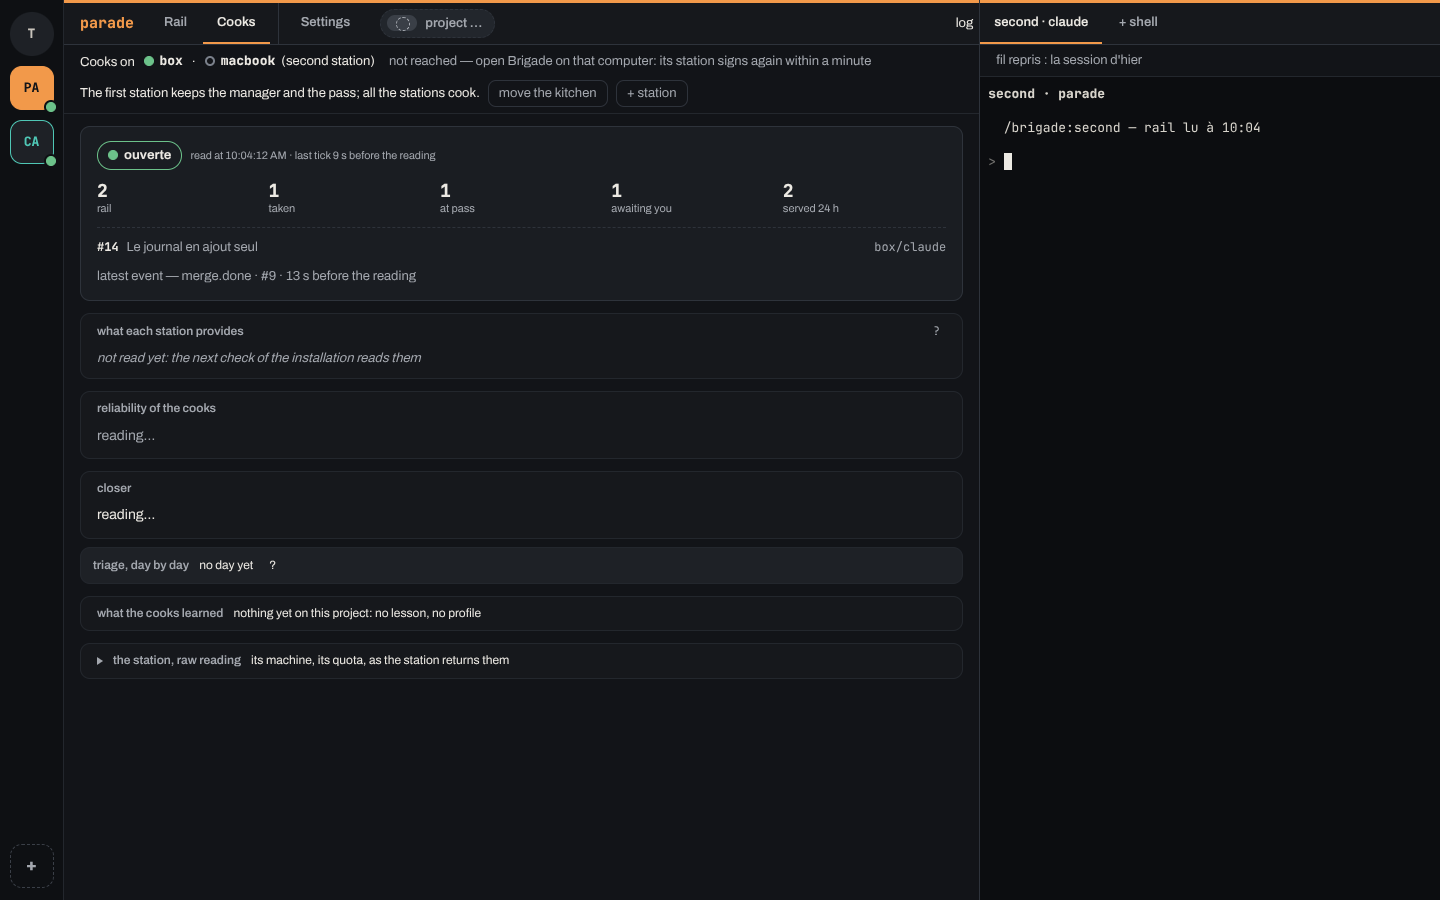
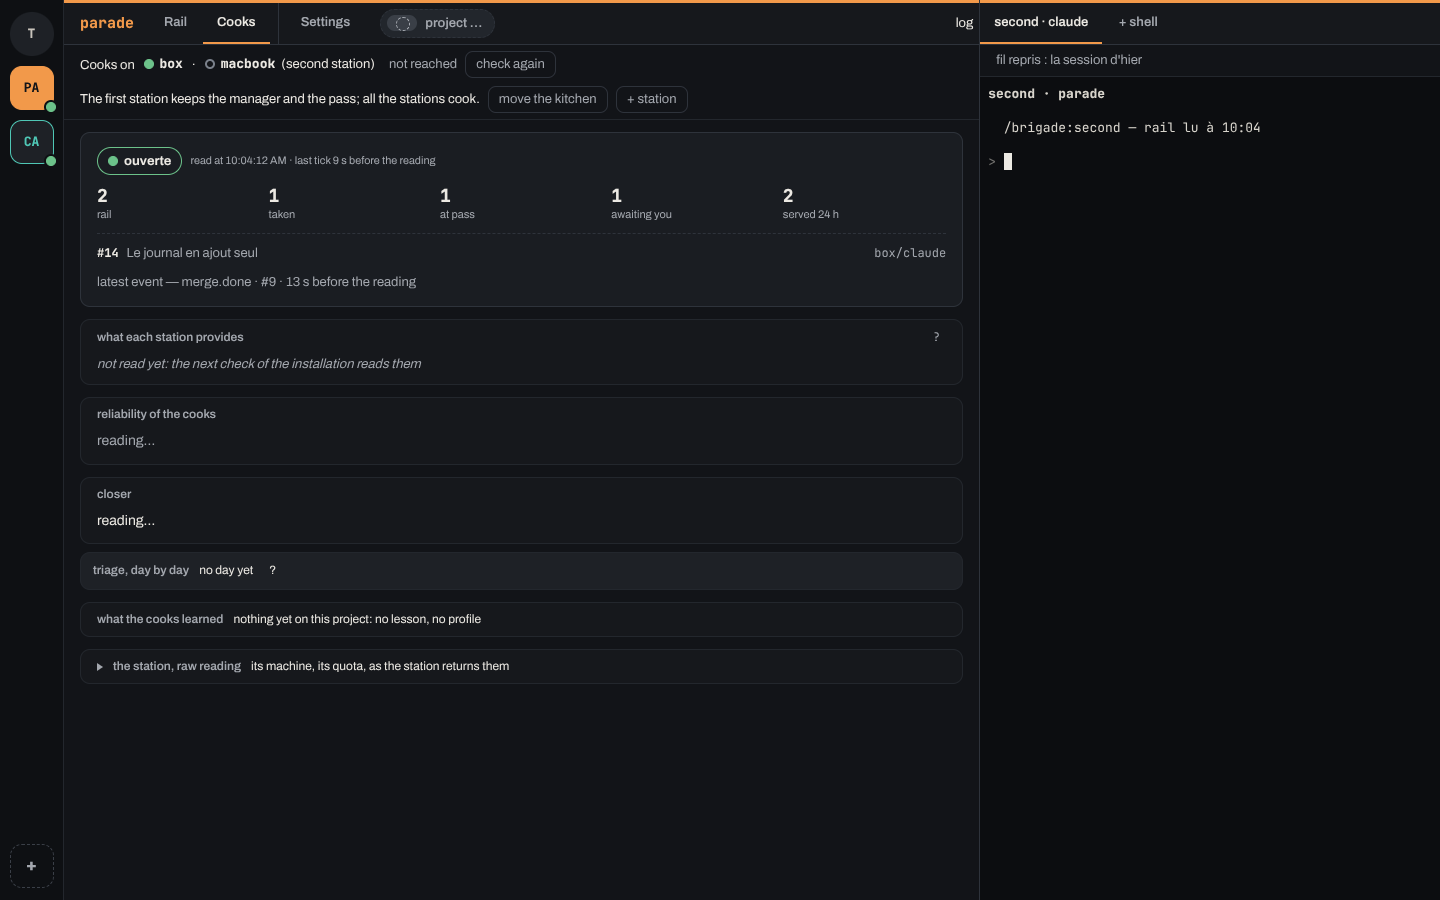
fix(#1758): the reason of a grey station is a few words and a button the app does (check again, open its page, add a project); what the chef does elsewhere is on hover

diff --git a/app/src/vue/vue.js b/app/src/vue/vue.js
@@ -5280,7 +5280,7 @@ async function passer() {
 
 // Une ligne de l'accueil : sa pastille, son nom, ce qui s'y passe — et, au survol, ce qu'elle tait.
 // Toute la ligne est un bouton : un clic n'importe où l'ouvre. Elle ne porte aucun autre geste.
-/** @param {string} nom @param {{ ton: string, dit: string, survol: string, raison?: { phrase: string } }} ligne @param {() => void} ouvrirLa */
+/** @param {string} nom @param {{ ton: string, dit: string, survol: string, raison?: { phrase: string, survol: string } }} ligne @param {() => void} ouvrirLa */
 function ligneDAccueil(nom, { ton, dit, survol, raison }, ouvrirLa) {
   const cree = document.createElement("button");
   cree.type = "button";
@@ -5294,6 +5294,7 @@ function ligneDAccueil(nom, { ton, dit, survol, raison }, ouvrirLa) {
   suite.ariaHidden = "true";
   const pourquoi = bloc("span", raison?.phrase ?? "");
   pourquoi.className = "pourquoi";
+  pourquoi.title = raison?.survol ?? "";
   cree.append(pastille(dit, ton), appele, bloc("span", dit), ...(raison === undefined ? [] : [pourquoi]), suite);
   cree.addEventListener("click", ouvrirLa);
   return cree;
@@ -5305,15 +5306,36 @@ function ligneDAccueil(nom, { ton, dit, survol, raison }, ouvrirLa) {
 function ligneDeStationDeLAccueil(station) {
   const ligne = ligneDAccueil(station.nom, station, () => ouvrirStation(station.id));
   const cuisine = stationsVues?.stations.find(({ id }) => id === station.id)?.cuisine !== false;
-  if (telephoneVu !== undefined || brigade.tirerUnCodeDeTelephone === undefined || !cuisine) return ligne;
+  const gestes = [];
+  // Une station qui ne cuit pas encore : le bouton de sa raison, un geste que l'app fait (stations/raison.ts).
+  if (station.raison !== undefined) {
+    const { geste, libelle } = station.raison.bouton;
+    const remede = /** @type {HTMLButtonElement} */ (bloc("button", libelle));
+    remede.type = "button";
+    remede.className = "remede-de-station";
+    remede.ariaLabel = `${libelle} — ${station.nom}`;
+    remede.addEventListener("click", () => {
+      if (geste === "ouvrir-la-page") ouvrirStation(station.id);
+      else if (geste === "ajouter-un-projet") ouvrirAjout();
+      else {
+        remede.disabled = true;
+        void brigade.panne(station.id, "relire-la-station").finally(() => (remede.disabled = false));
+      }
+    });
+    gestes.push(remede);
+  }
+  if (telephoneVu === undefined && brigade.tirerUnCodeDeTelephone !== undefined && cuisine) {
+    const appairer = /** @type {HTMLButtonElement} */ (bloc("button", APPAIRER_UN_TELEPHONE));
+    appairer.type = "button";
+    appairer.className = "appairer-un-telephone";
+    appairer.ariaLabel = `${APPAIRER_UN_TELEPHONE} with ${station.nom}`;
+    appairer.addEventListener("click", () => ouvrirLesTelephones({ id: station.id, nom: station.nom }));
+    gestes.push(appairer);
+  }
+  if (gestes.length === 0) return ligne;
   const rang = document.createElement("div");
   rang.className = "ligne-et-geste";
-  const appairer = /** @type {HTMLButtonElement} */ (bloc("button", APPAIRER_UN_TELEPHONE));
-  appairer.type = "button";
-  appairer.className = "appairer-un-telephone";
-  appairer.ariaLabel = `${APPAIRER_UN_TELEPHONE} with ${station.nom}`;
-  appairer.addEventListener("click", () => ouvrirLesTelephones({ id: station.id, nom: station.nom }));
-  rang.append(ligne, appairer);
+  rang.append(ligne, ...gestes);
   return rang;
 }
 
@@ -5809,10 +5831,10 @@ function cuisineDe(projet) {
   const demande = projetsVus?.projets.find(({ nom }) => nom === projet.nom);
   const servies = (stationsVues?.stations ?? []).filter(({ projets }) => projets.includes(projet.nom));
   const stations = [
-    ...servies.map(({ id, nom }) => ({ id, nom, principale: true, ...(muette ? { dit: "unreachable", ton: "rouge" } : etatDeLaCuisine("servi")), pourquoi: "", survol: muette ? `${nom} does not answer: the app knows nothing of the kitchen right now` : `${nom} serves it: it runs its manager and its pass`, autoriser: /** @type {string[]} */ ([]) })),
+    ...servies.map(({ id, nom }) => ({ id, nom, principale: true, ...(muette ? { dit: "unreachable", ton: "rouge" } : etatDeLaCuisine("servi")), pourquoi: "", geste: "", survol: muette ? `${nom} does not answer: the app knows nothing of the kitchen right now` : `${nom} serves it: it runs its manager and its pass`, autoriser: /** @type {string[]} */ ([]) })),
     ...(demande?.stations ?? [])
       .filter(({ id }) => !servies.some((servie) => servie.id === id))
-      .map((station) => ({ id: station.id, nom: station.nom, principale: station.principale, ...etatDeLaCuisine(station.etat, station.atteinte), pourquoi: station.atteinte?.pourquoi ?? "", survol: station.atteinte === undefined ? station.dit : station.atteinte.dit.replace(/^(not )?reached: /, ""), autoriser: station.autoriser })),
+      .map((station) => ({ id: station.id, nom: station.nom, principale: station.principale, ...etatDeLaCuisine(station.etat, station.atteinte), pourquoi: station.atteinte?.pourquoi ?? "", geste: station.atteinte?.geste ?? "", survol: station.atteinte === undefined ? station.dit : station.atteinte.dit.replace(/^(not )?reached: /, ""), autoriser: station.autoriser })),
   ];
   return { stations, demande: demande !== undefined, principale: stations.some(({ principale }) => principale) };
 }
@@ -5862,9 +5884,19 @@ function stationNommee(station, ici, rang = "") {
   });
   const pose = document.createElement("span");
   pose.className = "station-et-gestes";
+  // Une station ajoutée mais pas atteinte : deux mots, ce que le chef fait ailleurs au survol, et le geste de l'app.
   const pourquoi = bloc("span", station.pourquoi);
   pourquoi.className = "pourquoi";
-  pose.append(nomme, ...(station.pourquoi === "" ? [] : [pourquoi]), ...autoriser);
+  pourquoi.title = station.geste;
+  const relire = /** @type {HTMLButtonElement} */ (bloc("button", "check again"));
+  relire.type = "button";
+  relire.className = "relire-la-station";
+  relire.title = "reads GitHub again, to see whether the station has spoken";
+  relire.addEventListener("click", () => {
+    relire.disabled = true;
+    void brigade.panne(station.id, "relire-la-station").finally(() => (relire.disabled = false));
+  });
+  pose.append(nomme, ...(station.pourquoi === "" ? [] : [pourquoi, relire]), ...autoriser);
   return pose;
 }
 
@@ -6068,7 +6100,7 @@ function poserStationsDuProjet() {
     // Où il cuit, d'abord — « this Mac » pour la station de cet ordinateur —, puis ses renforts.
     const sienne = stations.find(({ id }) => id === ou?.id);
     const autres = stations.filter((station) => station !== sienne && !(enCours !== null && enCours.etape !== "refusee" && station.nom === enCours.vers));
-    const tete = ou === undefined ? [] : [stationNommee(sienne ?? { id: ou.id ?? "", nom: ou.nom, principale: true, dit: "served", ton: "vert", survol: "", pourquoi: "", autoriser: [] }, ou.ici)];
+    const tete = ou === undefined ? [] : [stationNommee(sienne ?? { id: ou.id ?? "", nom: ou.nom, principale: true, dit: "served", ton: "vert", survol: "", pourquoi: "", geste: "", autoriser: [] }, ou.ici)];
     ligneDesStationsDuProjet.replaceChildren(
       bloc("span", ou === undefined ? "Cooked by " : "Cooks on "),
       ...tete,

diff --git a/app/src/stations/raison.ts b/app/src/stations/raison.ts
@@ -1,14 +1,16 @@
-// Pourquoi une station installée ne cuit pas encore, en une phrase qui nomme le geste du chef (#1758) : une
-// pastille grise ne reste jamais sans explication. Chaque raison a une clé, et sa phrase — ce que le chef clique
-// ou lance — est dite ici, en un seul endroit ; la home la montre sur la ligne de la station.
-// Hors ligne, illisible, sans projet : c'est l'app qui les lit sur la station. Une station ajoutée à un projet
-// mais pas atteinte, c'est la principale du projet qui le dit, avec son geste (runtime/src/projets/secondaires.ts).
-export type RaisonDeStation = { cle: "hors-ligne" | "illisible" | "sans-projet"; phrase: string };
+// Pourquoi une station installée ne cuit pas encore, en quelques mots, et le bouton qui y remédie (#1758) : une
+// pastille grise ne reste jamais sans explication. Chaque raison a une clé ; sa phrase tient sur la ligne, son
+// bouton est un geste que l'app fait — relire GitHub, ouvrir la page de la station, ouvrir l'ajout d'un projet —,
+// et ce que le chef fait ailleurs (démarrer Brigade sur l'autre ordinateur) se lit au survol.
+// Hors ligne, illisible, sans projet : c'est l'app qui les lit sur la station. Une station ajoutée à un projet mais
+// pas atteinte, c'est la principale du projet qui le dit, avec son geste (runtime/src/projets/secondaires.ts).
+export type GesteDeRaison = "relire" | "ouvrir-la-page" | "ajouter-un-projet";
+export type RaisonDeStation = { cle: "hors-ligne" | "illisible" | "sans-projet"; phrase: string; survol: string; bouton: { libelle: string; geste: GesteDeRaison } };
 
 export const RAISONS = {
-  "hors-ligne": (nom: string) => `not reached: start Brigade on ${nom}'s computer, this line turns green when it signs again`,
-  illisible: (nom: string) => `cannot be read: open ${nom}'s page and remove it, then pair it again with a new code`,
-  "sans-projet": (nom: string) => `not added to any project: add a project to ${nom} with “+” in the bar`,
-} as const satisfies Record<RaisonDeStation["cle"], (nom: string) => string>;
+  "hors-ligne": (nom: string): Omit<RaisonDeStation, "cle"> => ({ phrase: "not reached", survol: `start Brigade on ${nom}'s computer: this line turns green when it signs again`, bouton: { libelle: "check again", geste: "relire" } }),
+  illisible: (nom: string): Omit<RaisonDeStation, "cle"> => ({ phrase: "cannot be read", survol: `remove ${nom} from its page, then pair it again with a new code`, bouton: { libelle: "open its page", geste: "ouvrir-la-page" } }),
+  "sans-projet": (nom: string): Omit<RaisonDeStation, "cle"> => ({ phrase: "not added to any project", survol: `add a project to ${nom}: it cooks nothing until then`, bouton: { libelle: "add a project", geste: "ajouter-un-projet" } }),
+} as const satisfies Record<RaisonDeStation["cle"], (nom: string) => Omit<RaisonDeStation, "cle">>;
 
-export const raisonDe = (cle: RaisonDeStation["cle"], nom: string): RaisonDeStation => ({ cle, phrase: RAISONS[cle](nom) });
+export const raisonDe = (cle: RaisonDeStation["cle"], nom: string): RaisonDeStation => ({ cle, ...RAISONS[cle](nom) });

diff --git a/app/src/projets/projets.ts b/app/src/projets/projets.ts
@@ -28,7 +28,7 @@ import { capacitesLues, documentDeDemande, FICHIER_PROJETS, FICHIER_SUIVI, lireD
 import type { Demenagement, Demenageur } from "./demenagement.ts";
 import type { DepotDuChef } from "./github.ts";
 import { canalDesGists, pourLaPage, type DemanderLeRemede, type IssueDuRemede } from "./remede.ts";
-import { pasAtteinte } from "./pas-atteinte.ts";
+import { gesteDePasAtteinte, PAS_ATTEINTE } from "./pas-atteinte.ts";
 
 // Le calibrage que la station accepte : ses deux listes fermées (runtime/src/calibrage.ts).
 export const MODELES = ["opus", "sonnet", "haiku"] as const;
@@ -53,8 +53,8 @@ export type Signales = Partial<Record<Champ, string>>;
 
 // Une station d'un projet, telle que la home la montre. `atteinte` : pour une station ajoutée en plus de la
 // principale, si la principale la dit atteinte, et pourquoi en une phrase (#1756) — absent tant qu'elle n'en dit rien ;
-// `pourquoi` : pas atteinte, la phrase de sa ligne, avec le geste du chef (pas-atteinte.ts, #1758).
-export type StationDuProjet = { id: string; nom: string; principale: boolean; etat: EtatDuProjet | "attendu"; dit: string; autoriser: string[]; atteinte?: { oui: boolean; dit: string; pourquoi?: string } };
+// `pourquoi` : pas atteinte, les mots de sa ligne, et `geste`, ce que le chef fait pour y remédier (pas-atteinte.ts, #1758).
+export type StationDuProjet = { id: string; nom: string; principale: boolean; etat: EtatDuProjet | "attendu"; dit: string; autoriser: string[]; atteinte?: { oui: boolean; dit: string; pourquoi?: string; geste?: string } };
 // Où cuit un projet : la station qui le sert — son gist quand elle est appairée —, et si c'est
 // celle de cet ordinateur.
 export type CuitSur = { id: string | null; nom: string; ici: boolean };
@@ -507,7 +507,7 @@ export function tenirProjets(options: OptionsProjets): Projets {
         for (const { nom, secondaires } of suivi) {
           for (const tenue of secondaires ?? []) {
             const sienne = projets.get(nom)?.stations.find(({ id, principale }) => id === tenue.gist && !principale);
-            if (sienne !== undefined) sienne.atteinte = { oui: tenue.atteinte, dit: tenue.dit, ...(tenue.atteinte ? {} : { pourquoi: pasAtteinte(tenue.geste) }) };
+            if (sienne !== undefined) sienne.atteinte = { oui: tenue.atteinte, dit: tenue.dit, ...(tenue.atteinte ? {} : { pourquoi: PAS_ATTEINTE, geste: gesteDePasAtteinte(tenue.geste) }) };
           }
         }
       }

diff --git a/app/test/accueil.test.ts b/app/test/accueil.test.ts
@@ -148,12 +148,17 @@ describe("la ligne d'une station : son état, ce qu'elle fait, ses projets — s
     for (const etat of etats) {
       for (const saturee of [false, true]) {
         const ligne = ligneDeStation(etat, 0, saturee);
-        if (ligne.ton === "gris") assert.ok(ligne.raison !== undefined && ligne.raison.phrase.includes(ligne.nom), JSON.stringify(ligne));
+        if (ligne.ton === "gris") assert.ok(ligne.raison !== undefined && ligne.raison.phrase !== "" && ligne.raison.bouton.libelle !== "", JSON.stringify(ligne));
       }
     }
-    assert.deepEqual(ligneDeStation(station({ etat: "hors-ligne", dit: "offline for 4 min" }), 0, false).raison, { cle: "hors-ligne", phrase: "not reached: start Brigade on parade-box's computer, this line turns green when it signs again" });
-    assert.equal(ligneDeStation(station({ etat: "illisible", dit: "unreadable" }), 0, false).raison?.cle, "illisible");
-    assert.equal(ligneDeStation(station({ projets: [] }), 0, false).raison?.phrase, "not added to any project: add a project to parade-box with “+” in the bar");
+    const hors = ligneDeStation(station({ etat: "hors-ligne", dit: "offline for 4 min" }), 0, false).raison;
+    assert.deepEqual([hors?.cle, hors?.phrase, hors?.bouton], ["hors-ligne", "not reached", { libelle: "check again", geste: "relire" }]);
+    assert.match(hors?.survol ?? "", /^start Brigade on parade-box's computer/);
+    assert.deepEqual(ligneDeStation(station({ etat: "illisible", dit: "unreadable" }), 0, false).raison?.bouton, { libelle: "open its page", geste: "ouvrir-la-page" });
+    const sans = ligneDeStation(station({ projets: [] }), 0, false).raison;
+    assert.deepEqual([sans?.phrase, sans?.bouton], ["not added to any project", { libelle: "add a project", geste: "ajouter-un-projet" }]);
+    // Une phrase tient sur une ligne : quelques mots, le reste au survol.
+    for (const raison of [hors, sans]) assert.ok((raison?.phrase.length ?? 99) <= 30);
     assert.equal(ligneDeStation(station(), 0, false).raison, undefined);
     assert.equal(ligneDeStation(station({ projets: [] }), 0, false, [{ projet: "a", station: "box" }]).raison, undefined);
   });

diff --git a/app/test/projets/projets.test.ts b/app/test/projets/projets.test.ts
@@ -452,10 +452,10 @@ describe("l'ajout, la lecture et le retrait d'un projet, contre un GitHub de tes
     suivre("g1", [{ ...SERVI, secondaires: [{ ...tenue, atteinte: true, dit: "reached: it is online on GitHub" }] }]);
     assert.deepEqual((await lue())?.atteinte, { oui: true, dit: "reached: it is online on GitHub" });
     suivre("g1", [{ ...SERVI, secondaires: [{ ...tenue, atteinte: false, dit: "not reached: it stopped at 2026-10-15T11:50:00.000Z" }] }]);
-    assert.deepEqual((await lue())?.atteinte, { oui: false, dit: "not reached: it stopped at 2026-10-15T11:50:00.000Z", pourquoi: "not reached — open Brigade on that computer" });
+    assert.deepEqual((await lue())?.atteinte, { oui: false, dit: "not reached: it stopped at 2026-10-15T11:50:00.000Z", pourquoi: "not reached", geste: "open Brigade on that computer" });
     // Le geste que la principale publie (#1758) est celui de la phrase.
     suivre("g1", [{ ...SERVI, secondaires: [{ ...tenue, atteinte: false, dit: "not reached: it stopped at 2026-10-15T11:50:00.000Z", raison: "arretee", geste: "start Brigade on that computer again" }] }]);
-    assert.equal((await lue())?.atteinte?.pourquoi, "not reached — start Brigade on that computer again");
+    assert.deepEqual([(await lue())?.atteinte?.pourquoi, (await lue())?.atteinte?.geste], ["not reached", "start Brigade on that computer again"]);
     // Une secondaire illisible, ou celle d'une autre station, ne dit rien de celle-ci.
     suivre("g1", [{ ...SERVI, secondaires: [{ ...tenue, gist: "g9", atteinte: true, dit: "reached" }, { ...tenue, atteinte: "oui", dit: "reached" }] }]);
     assert.equal((await lue())?.atteinte, undefined);

diff --git a/app/test/pannes/gestes.test.ts b/app/test/pannes/gestes.test.ts
@@ -2,7 +2,7 @@
 // le login — celui de la station de cet ordinateur seulement.
 import assert from "node:assert/strict";
 import { test } from "node:test";
-import { jouerPanne, type OptionsGestes } from "../../src/pannes/gestes.ts";
+import { jouerPanne, RELIRE_LA_STATION, type OptionsGestes } from "../../src/pannes/gestes.ts";
 import type { Panne } from "../../src/pannes/pannes.ts";
 import type { StationVue, VuDesStations } from "../../src/stations/stations.ts";
 
@@ -59,4 +59,13 @@ test("une panne qui n'est plus sur la ligne — relue entre-temps, ou jamais mon
     assert.deepEqual(await jouerPanne(options, id, cle), { refus: "this breakdown is no longer shown: the station was read again in the meantime" });
   }
   assert.deepEqual(fait, { relectures: 0, ecartees: [], logins: 0 });
+});
+
+test("« check again » d'une station qui ne cuit pas encore relit GitHub sans viser une panne, et dit si elle a reparlé (#1758)", async () => {
+  const hors = { ...station([]), etat: "hors-ligne" as const };
+  const muette = desGestes([], { a: "", stations: [hors] });
+  assert.deepEqual(await jouerPanne(muette.options, "g1", RELIRE_LA_STATION), { fait: "still no sign of life from box on GitHub" });
+  assert.equal(muette.fait.relectures, 1);
+  assert.deepEqual(await jouerPanne(desGestes([]).options, "g1", RELIRE_LA_STATION), { fait: "box is back" });
+  assert.deepEqual(await jouerPanne(desGestes([], { a: "", stations: [] }).options, "g1", RELIRE_LA_STATION), { refus: "this station is no longer paired with this app" });
 });

diff --git a/app/src/pannes/gestes.ts b/app/src/pannes/gestes.ts
@@ -19,7 +19,18 @@ export type OptionsGestes = {
 
 const message = (erreur: unknown) => (erreur instanceof Error ? erreur.message : String(erreur));
 
+// Le bouton « check again » d'une station qui ne cuit pas encore (stations/raison.ts, #1758) : il ne vise pas une
+// panne, il relit GitHub et dit si la station a reparlé.
+export const RELIRE_LA_STATION = "relire-la-station";
+
 export async function jouerPanne(options: OptionsGestes, id: unknown, cle: unknown): Promise<RenduDePanne> {
+  if (cle === RELIRE_LA_STATION) {
+    const vu = await options.stations.relire();
+    if (vu.sans !== undefined) return { refus: vu.sans };
+    const relue = vu.stations.find((candidate) => candidate.id === id);
+    if (relue === undefined) return { refus: "this station is no longer paired with this app" };
+    return { fait: relue.etat === "en-ligne" ? `${relue.nom} is back` : `still no sign of life from ${relue.nom} on GitHub` };
+  }
   const station = options.stations.vu()?.stations.find((candidate) => candidate.id === id);
   const panne = station?.pannes.find((candidate) => candidate.cle === cle);
   if (station === undefined || panne === undefined) return { refus: "this breakdown is no longer shown: the station was read again in the meantime" };

diff --git a/app/src/projets/pas-atteinte.ts b/app/src/projets/pas-atteinte.ts
@@ -1,5 +1,7 @@
-// La phrase de la ligne d'une station ajoutée à un projet que sa principale dit pas atteinte (#1758) : le geste est
-// celui que la principale publie (runtime/src/projets/secondaires.ts) — à défaut (une principale d'avant ce ticket), le
-// plus sûr qui reste. Voir aussi stations/raison.ts, pour les stations que l'app lit elle-même.
+// La ligne d'une station ajoutée à un projet que sa principale dit pas atteinte (#1758) : la raison tient en deux
+// mots sur la ligne, que le bouton « check again » (relire GitHub) accompagne ; le geste que la principale publie
+// (runtime/src/projets/secondaires.ts) — ce que le chef fait sur l'autre ordinateur — se lit au survol. À défaut
+// (une principale d'avant ce ticket), le plus sûr qui reste. Sans import : projets.ts se joue avant les dépendances.
+export const PAS_ATTEINTE = "not reached";
 export const GESTE_PAR_DEFAUT = "open Brigade on that computer";
-export const pasAtteinte = (geste: string | undefined) => `not reached — ${geste ?? GESTE_PAR_DEFAUT}`;
+export const gesteDePasAtteinte = (geste: string | undefined) => geste ?? GESTE_PAR_DEFAUT;

diff --git a/app/src/vue/vue.css b/app/src/vue/vue.css
@@ -592,7 +592,8 @@ main > header,
   align-items: center;
   gap: 6px;
 }
-#stations-du-projet .ajout-de-station {
+#stations-du-projet .ajout-de-station,
+#stations-du-projet .relire-la-station {
   padding: 3px 10px;
   color: var(--discret);
   border: 1px solid var(--trait);
@@ -1754,7 +1755,8 @@ main > header,
 #accueil-stations .ligne-et-geste {
   position: relative;
 }
-#accueil-stations .appairer-un-telephone {
+#accueil-stations .appairer-un-telephone,
+#accueil-stations .remede-de-station {
   position: absolute;
   top: 50%;
   right: 8px;
@@ -1763,6 +1765,10 @@ main > header,
   color: var(--discret);
   border: 1px solid var(--trait);
   border-radius: var(--rayon-bouton);
+}
+/* Le bouton de la raison d'une station qui ne cuit pas encore (ticket 1758) : à gauche de « pair a phone ». */
+#accueil-stations .remede-de-station {
+  right: 120px;
 }
 /* L'écran « Pair a phone » : comme la page d'une station — le retour, le titre et son aide, ce qu'on attend du chef —,
    puis le QR à gauche, le code, ce qu'il vaut encore et l'adresse de la station à droite ; dessous, les téléphones

diff --git a/scripts/capture-ecran/ecrans/cooks-station-pas-atteinte.ts b/scripts/capture-ecran/ecrans/cooks-station-pas-atteinte.ts
@@ -10,5 +10,5 @@ export const ecran: Ecran = {
   largeur: 1440,
   hauteur: 900,
   etapes: [OUVRIR, { cliquer: "#onglets-du-projet button:nth-child(2)" }],
-  donnees: () => donnees({ ...SUR_LA_BOX, stations: [box!, { ...mac!, atteinte: { oui: false, dit: "not reached: no sign of life on GitHub since 2026-10-16T09:41:00.000Z", pourquoi: "not reached — open Brigade on that computer: its station signs again within a minute" } }] }),
+  donnees: () => donnees({ ...SUR_LA_BOX, stations: [box!, { ...mac!, atteinte: { oui: false, dit: "not reached: no sign of life on GitHub since 2026-10-16T09:41:00.000Z", pourquoi: "not reached", geste: "open Brigade on that computer" } }] }),
 };

diff --git a/docs/app.md b/docs/app.md
@@ -1411,15 +1411,16 @@ one line.
 
 #### A station that is installed but cannot cook yet says why (#1758)
 
-A grey dot is never alone: a station line that cannot cook yet carries one sentence, next to its state, that says
-why and the gesture to do. Offline: "not reached: start Brigade on *name*'s computer, this line turns green when it
-signs again". Unreadable: "cannot be read: open *name*'s page and remove it, then pair it again with a new code".
-Online with no project (and none of this computer's projects cooking on it): "not added to any project: add a
-project to *name* with “+” in the bar". The sentences live in `app/src/stations/raison.ts`, one per key, and a
-test fails when a grey station line has none. A station added to a project that its main station cannot reach is
-the same on the project's Cooks tab: its main station publishes the reason key and the gesture
-(`raison`, `geste` of `secondaires` in its tracking, `runtime/src/projets/secondaires.ts`: `arretee`, `muette`,
-`gist-illisible`), and the line reads "not reached — *gesture*", the detail staying on hover.
+A grey dot is never alone: a station line that cannot cook yet carries a few words next to its state, and the
+button that does the gesture. Offline: "not reached" and **check again** (reads GitHub again). Unreadable:
+"cannot be read" and **open its page** (where it is removed). Online with no project (and none of this
+computer's projects cooking on it): "not added to any project" and **add a project**. What the chef does on
+another computer ("start Brigade on *name*'s computer") is the hover of the words. The wording lives in
+`app/src/stations/raison.ts`, and a test fails when a grey station line has no reason and button. A station added
+to a project that its main station cannot reach is the same on the project's Cooks tab: its main station
+publishes the reason key and the gesture (`raison`, `geste` of `secondaires` in its tracking,
+`runtime/src/projets/secondaires.ts`: `arretee`, `muette`, `gist-illisible`); the line reads "not reached" with
+**check again**, the gesture on hover.
 
 ### Your stations under your GitHub account, and the projects each serves (#1706)
 
